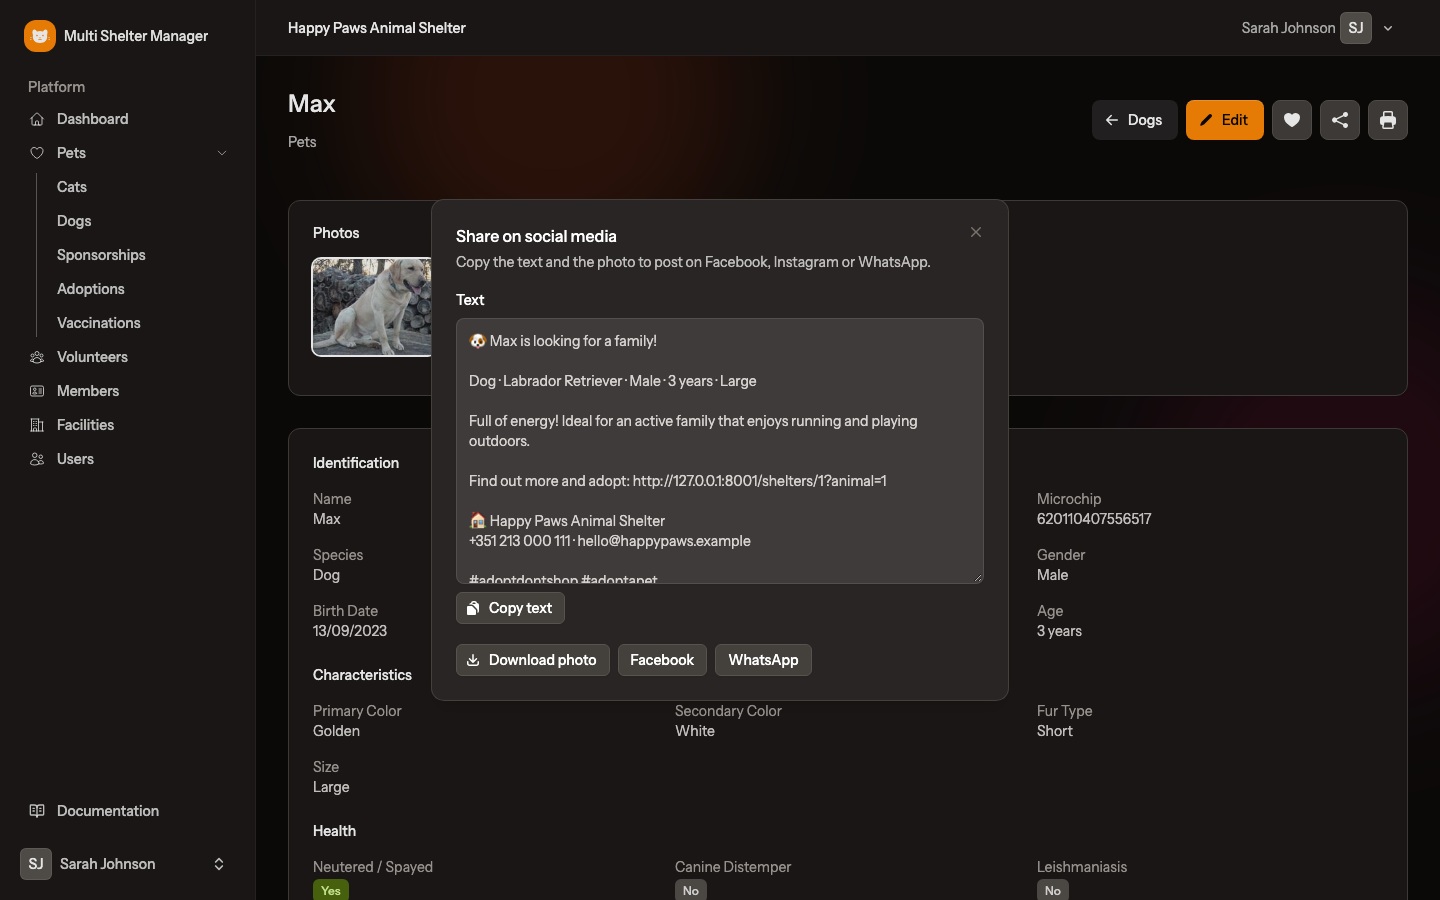
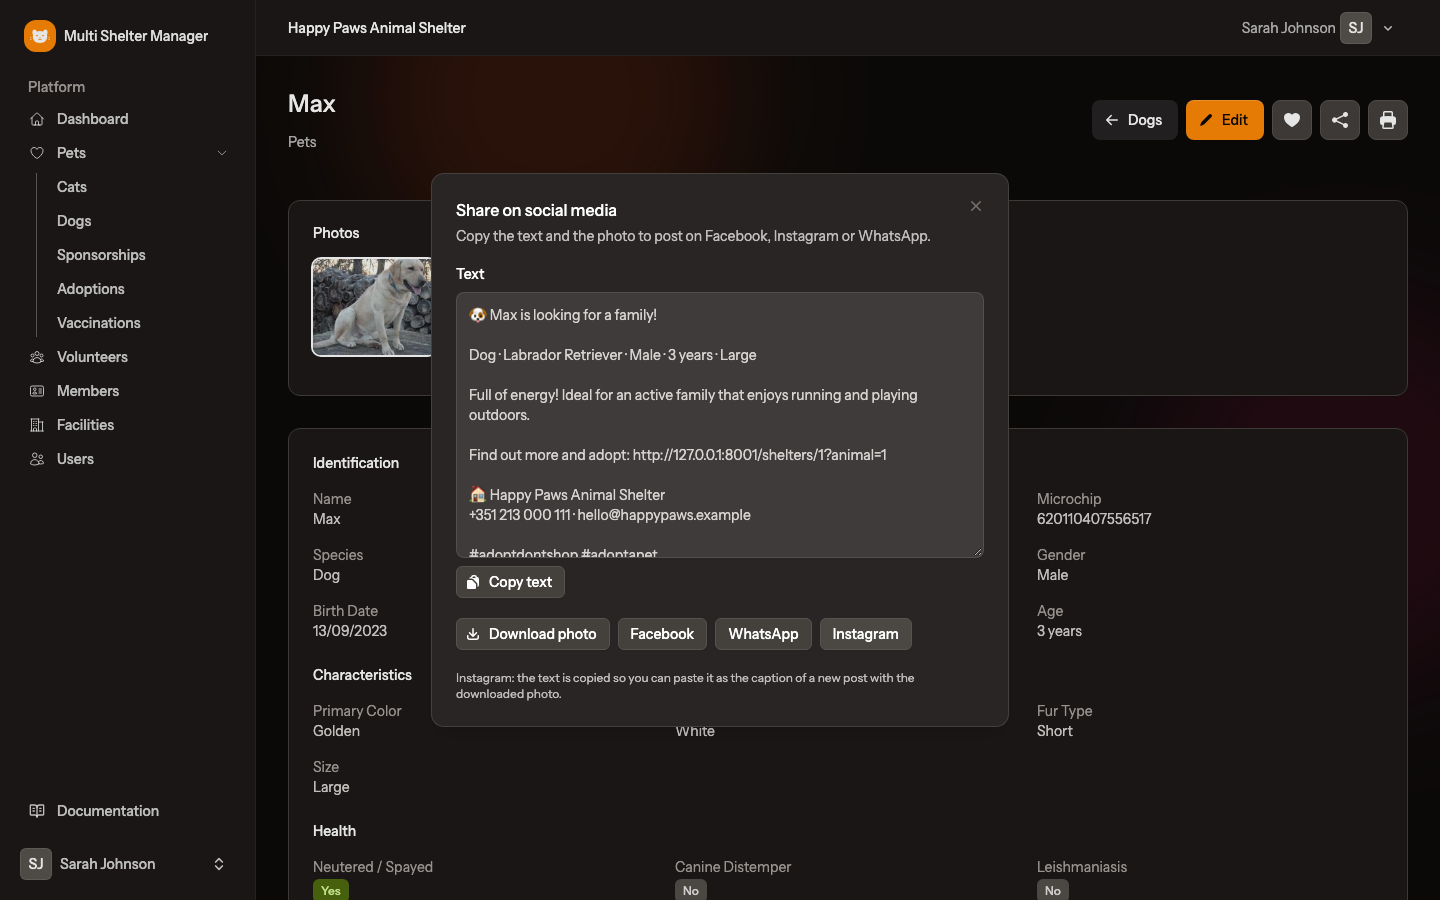
Instagram share link

Changed region(s): [[0.2812, 0.1867, 0.7188, 0.8089]]

diff --git a/tests/Feature/PetShowTest.php b/tests/Feature/PetShowTest.php
@@ -6,6 +6,7 @@ use App\Models\Breed;
 use App\Models\Cage;
 use App\Models\Facility;
 use App\Models\Pet;
+use App\Models\PetImage;
 use App\Models\Shelter;
 use App\Models\Sickness;
 use App\Models\Size;
@@ -964,8 +965,20 @@ test('share panel offers a caption with the pet public link when the pet is publ
         ->assertSee('Share on social media')
         ->assertSee('Bolinha is looking for a family!')
         ->assertSee('Find out more and adopt: '.route('shelters.show', ['shelter' => $shelter, 'animal' => $pet]), false)
-        ->assertDontSee('Publish this pet to the portal to include a link');
+        ->assertDontSee('Publish this pet to the portal to include a link')
+        ->assertSeeHtml('https://api.whatsapp.com/send?text='.rawurlencode($pet->shareCaption($pet->publicUrl())))
+        ->assertDontSeeHtml('https://wa.me/');
 });
+
+test('every shelter role can open the share panel', function (string $role) {
+    $shelter = Shelter::factory()->create();
+    $pet = Pet::factory()->for($shelter)->create(['name' => 'Bolinha', 'is_adoptable' => true]);
+    $this->actingAs(User::factory()->forShelter($shelter, $role)->create());
+
+    Livewire::test(PetShow::class, ['pet' => $pet])
+        ->assertSee('Share on social media')
+        ->assertSee('Bolinha is looking for a family!');
+})->with(['manager', 'staff', 'viewer']);
 
 test('share panel leaves out the link and says why when the pet is not published', function () {
     config(['app.public_portal_enabled' => true]);
@@ -976,6 +989,22 @@ test('share panel leaves out the link and says why when the pet is not published
     Livewire::test(PetShow::class, ['pet' => $pet])
         ->assertSee('Publish this pet to the portal to include a link')
         ->assertDontSee('Find out more and adopt');
+});
+
+test('share panel offers instagram only when the pet has a photo to post', function () {
+    $shelter = Shelter::factory()->create();
+    $pet = Pet::factory()->for($shelter)->create(['name' => 'Bolinha', 'is_adoptable' => true]);
+    $this->actingAs(User::factory()->forShelter($shelter, 'staff')->create());
+
+    Livewire::test(PetShow::class, ['pet' => $pet])
+        ->assertDontSeeHtml('https://www.instagram.com/');
+
+    PetImage::factory()->for($pet)->create(['image_path' => 'pets/bolinha.jpg', 'is_main' => true]);
+
+    Livewire::test(PetShow::class, ['pet' => $pet->fresh()])
+        ->assertSeeHtml('https://www.instagram.com/')
+        ->assertSeeHtml('/storage/pets/bolinha.jpg')
+        ->assertSee('Instagram: the text is copied');
 });
 
 test('share panel is hidden for pets that are not waiting for adoption', function (array $attributes) {

diff --git a/resources/views/livewire/pets/pet-show.blade.php b/resources/views/livewire/pets/pet-show.blade.php
@@ -100,10 +100,28 @@
                             Facebook
                         </flux:button>
                     @endif
-                    <flux:button size="sm" :href="'https://wa.me/?text='.rawurlencode($this->shareCaption)" target="_blank" rel="noopener">
+                    {{-- api.whatsapp.com, not wa.me: wa.me redirects there and the redirect turns emojis into �. --}}
+                    <flux:button size="sm" :href="'https://api.whatsapp.com/send?text='.rawurlencode($this->shareCaption)" target="_blank" rel="noopener">
                         WhatsApp
                     </flux:button>
+                    @if ($shareImage)
+                        {{-- Instagram has no web link that pre-fills a post: copy the caption and open Instagram,
+                             where the downloaded photo is posted by hand. --}}
+                        <flux:button
+                            size="sm"
+                            href="https://www.instagram.com/"
+                            target="_blank"
+                            rel="noopener"
+                            x-on:click="navigator.clipboard?.writeText(@js($this->shareCaption)).catch(() => {})"
+                        >
+                            Instagram
+                        </flux:button>
+                    @endif
                 </div>
+
+                @if ($shareImage)
+                    <flux:text size="sm">{{ __('Instagram: the text is copied so you can paste it as the caption of a new post with the downloaded photo.') }}</flux:text>
+                @endif
             </div>
         </flux:modal>
     @endif

diff --git a/.ai/rules/pets.md b/.ai/rules/pets.md
@@ -58,4 +58,4 @@ When creating a pet (`$this->pet === null`), selecting a species auto-selects th
 When speciesFilter is set, ManagePets::facilities() only loads cages accepted by that species (Cage::accepting via a whereIn subquery, since Larastan can't resolve the scope on an untyped HasMany in an eager-load closure) and drops wings/facilities left with no cages. updatedSpeciesFilter() clears locationFilter if the selected facility/wing/cage is no longer listed.
 
 ## Viewer role is read-only and hides adopter/sponsor personal data
-shelter_users.role now allows 'viewer' (manager/staff/viewer). Viewers can view pets, vaccinations and facilities and print (PetPrint/PetPrintList), and receive vaccination emails when their membership flag is on. Every Pets write path checks `abort_unless(Auth::user()->canEditCurrentShelter(), 403)`: form mounts (PetForm, AdoptionForm, SponsorshipForm, VaccinationForm), delete actions, and ManagesSponsorshipPayments methods. Views hide the controls with a single `@php $canEdit = auth()->user()->canEditCurrentShelter(); @endphp` at the top, so roleForShelter() isn't queried once per row. People's personal data (adopters, sponsors, volunteers, members) is hidden from viewers: ManageAdoptions/ManageSponsorships/AdoptionShow/SponsorshipShow use `abort_if(isViewerOfCurrentShelter(), 403)`, pet-show skips the adoption/sponsorship boxes, and the sidebar hides those links. ManageVolunteers/VolunteerShow and the members pages (see [[members]]) use the same abort_if, and the sidebar hides Volunteers and Members for viewers (decided 2026-09-25: a viewer sees animals and facilities, never people). Any new pets write action or personal-data screen must add the same checks.
+shelter_users.role now allows 'viewer' (manager/staff/viewer). Viewers can view pets, vaccinations and facilities, print (PetPrint/PetPrintList) and use the share-pet modal (it only holds public info, deliberately not gated by canEdit), and receive vaccination emails when their membership flag is on. Every Pets write path checks `abort_unless(Auth::user()->canEditCurrentShelter(), 403)`: form mounts (PetForm, AdoptionForm, SponsorshipForm, VaccinationForm), delete actions, and ManagesSponsorshipPayments methods. Views hide the controls with a single `@php $canEdit = auth()->user()->canEditCurrentShelter(); @endphp` at the top, so roleForShelter() isn't queried once per row. People's personal data (adopters, sponsors, volunteers, members) is hidden from viewers: ManageAdoptions/ManageSponsorships/AdoptionShow/SponsorshipShow use `abort_if(isViewerOfCurrentShelter(), 403)`, pet-show skips the adoption/sponsorship boxes, and the sidebar hides those links. ManageVolunteers/VolunteerShow and the members pages (see [[members]]) use the same abort_if, and the sidebar hides Volunteers and Members for viewers (decided 2026-09-25: a viewer sees animals and facilities, never people). Any new pets write action or personal-data screen must add the same checks.

diff --git a/.ai/rules/resources-views-livewire-pets.md b/.ai/rules/resources-views-livewire-pets.md
@@ -32,3 +32,10 @@ Superseding the earlier note here (the font-matching change was undone): the "(D
 
 ## Pets list hides age for deceased pets
 manage-pets.blade.php's Characteristics column shows "Age …" only when date_of_death is null — deceased pets get a blank age span. pet-show.blade.php still shows age for deceased pets (age at death, via Pet::age_in_words stopping at date_of_death).
+
+## Share modal Instagram button: plain link to instagram.com that copies the caption
+Instagram has no web URL that pre-fills a post (unlike facebook.com/sharer or api.whatsapp.com/send), so the share-pet modal's Instagram button (only when the pet has a photo) is a plain link to https://www.instagram.com/ that copies the caption on click; the user posts the downloaded photo and pastes the text. Sharing the photo through navigator.share was tried and removed (2026-09-25): the system share sheet listed other apps/extensions instead of going to Instagram, which the user didn't want.
+
+
+## WhatsApp share link must be api.whatsapp.com/send, never wa.me
+The share-pet modal's WhatsApp button links to https://api.whatsapp.com/send?text=<rawurlencoded caption>. wa.me 302-redirects to that URL and the redirect corrupts emojis (🐶, 🏠 in the caption) into the � replacement character (reported 2026-09-25).

diff --git a/docs/07-pets.md b/docs/07-pets.md
@@ -169,6 +169,7 @@ Pets that are **adoptable and available** have a 🔗 **Share** button at the to
 - a ready-made **text** with the pet's name, species, breed, gender, age and size, the start of its description, the shelter's name and contacts, and a few hashtags. Click **Copy text** to copy it;
 - **Download photo**, to save the pet's main photo and attach it to the post;
 - **WhatsApp**, to send the text straight away;
+- **Instagram** (when the pet has a photo). Instagram does not accept ready-made posts from a link, so the button copies the text and opens Instagram, where you create a post with the downloaded photo and paste the text as the caption;
 - when the [public portal](13-public-portal.md) is on and the pet is published there, the text also includes a **link to the pet**, and a **Facebook** button shares that link directly.
 
 If the portal is on but the pet is not published yet, the panel reminds you to switch on **Publish to Portal** so the text can include the link.
